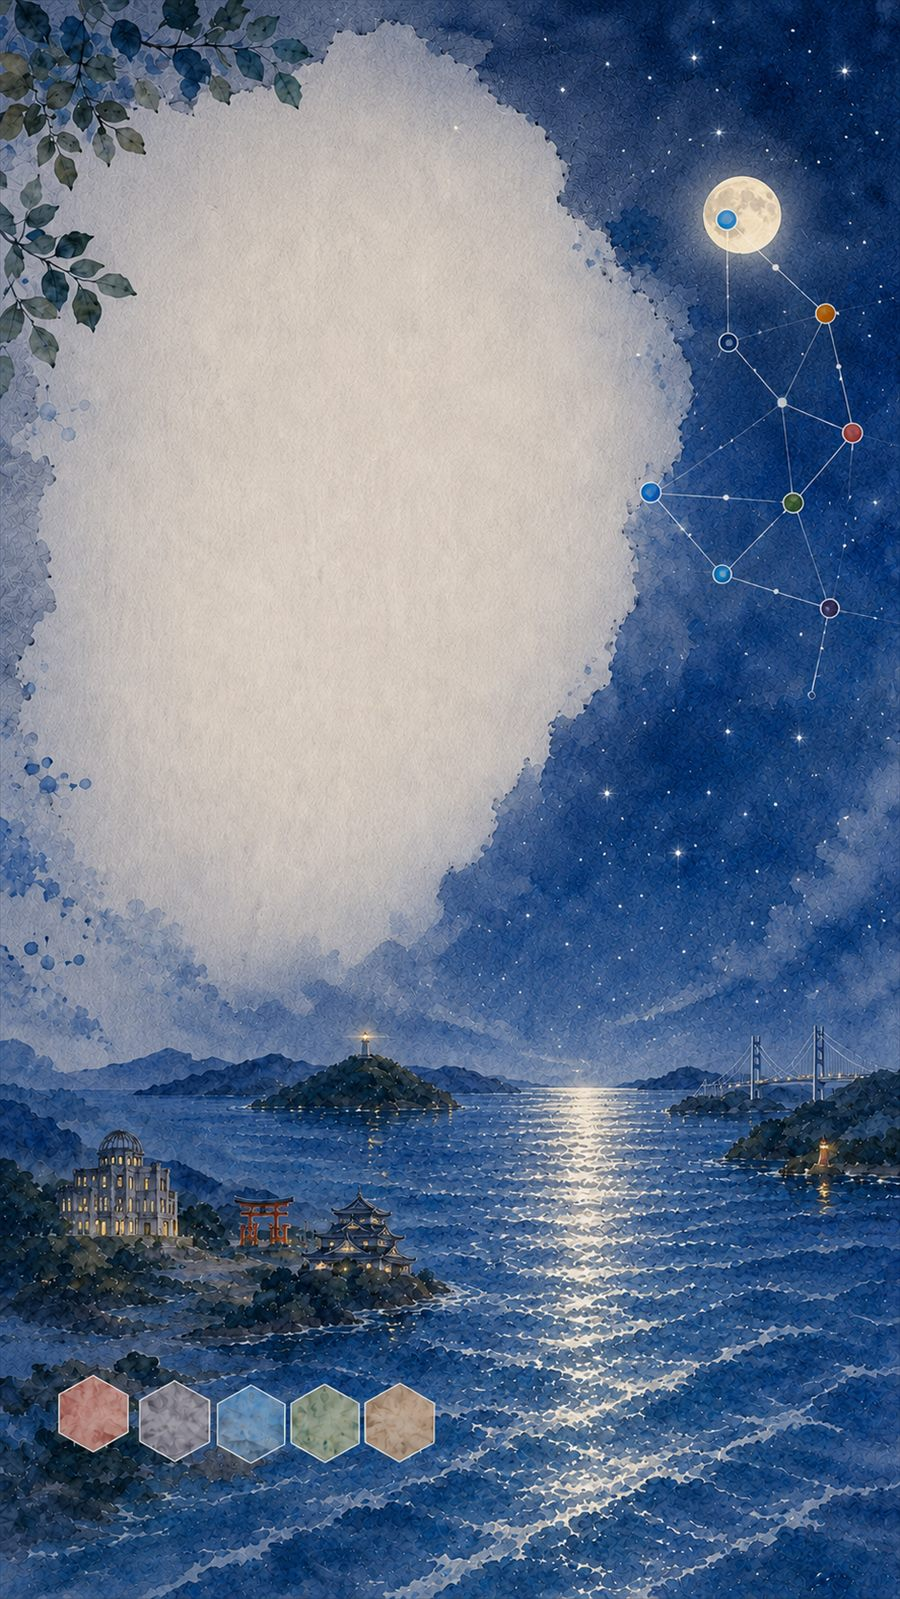
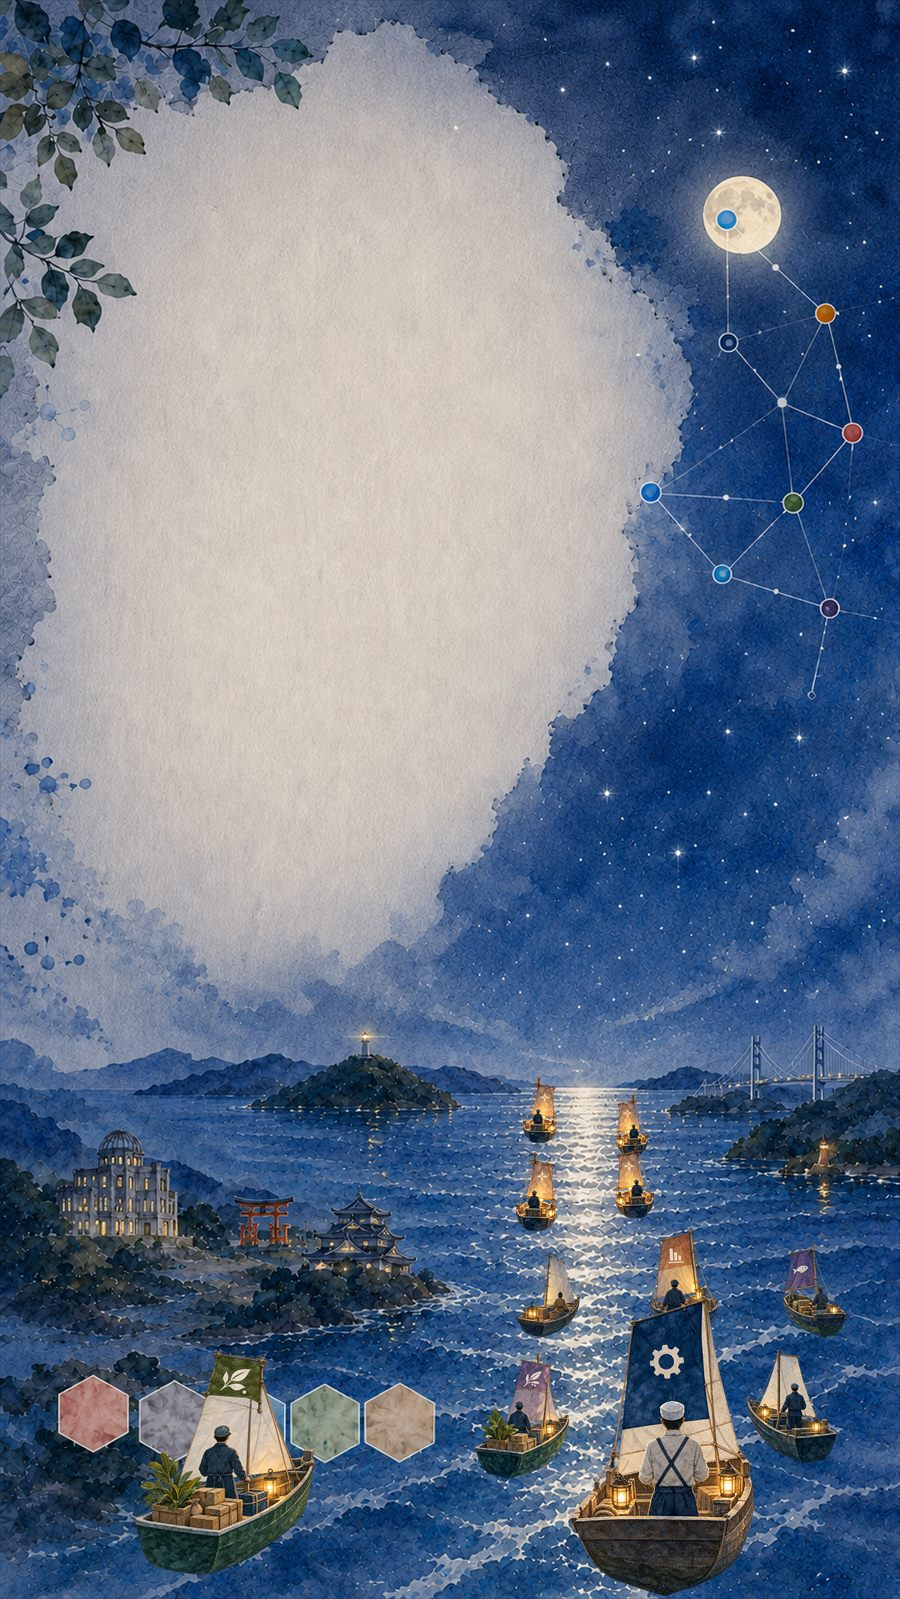
feat: 夜のモバイル背景に船団を合成、ロゴとアイコンを差し替え
■ モバイル版・夜の背景に船を合成（懸案の解消）

夜の縦の絵には舟が描かれていなかった。もらった夜の舟10点（灯りの点いた
水彩）を月光の道へ11隻合成した。tools/build-hero-night-mobile.ps1。

夜は昼と同じやり方が通じない。順に3つ潰した。

1. 色だけでは陸と海を分けられない
   実測すると、島も城も橋も夜の海と同じ「暗い青」だった。
   分けられるのは木立と灯りの点いた建物だけ（暖色 b-r が負）。
   島・橋・岸は区画で除外するしかない。

2. 波頭と月光の道が陸に見える
   どちらも無彩色に近く、色の規則では陸に落ちる。水平線より下で
   明るいものは波か月光なので水として数えるようにした。

3. それでも水率が 65〜90% で通らない
   舟の喫水線の下を出力させたら、陸判定は塊ではなくごま塩状に
   散っていた。夜の波の細かい陰影を拾っていた。9x9 の窓で
   「周りの55%以上が水なら水」とならした（総和表で一度に計算）。

あわせて、読み込み時に舟の透明な余白を切り落とすようにした。
舟10 は絵が中央の一部しかなく（下に25.5%の余白）、切らずに置くと
指定した喫水線より遥か上に浮いていた。

置き場所は当てずっぽうではなく、行ごとに水が続く範囲を3px刻みで
実測してから決めた。結果、11隻すべて水率 98.7〜100%、重なり 0〜4.9%。

■ そのほか（依頼を受けた順）

- 参加事業者の枠を、下の5枚の並び全体（左端〜右端）と同じ幅に。
  1列ぶんに揃えたのは読み違いだった。
- その枠だけ線が太く見えたのは、枠の濃さが .7 で他のカード（.45）より
  強かったため。揃えた。
- カニが幕の下に沈んでいた。幕を z-index:-2 へ下げ、生き物（-1）が
  必ず上に来るようにした。
- 海底火山が「参加を相談する」に重なっていたので画面の左端へ寄せた。
- フッターに広島県とLTSのロゴを設置（もらったファイル）。
- 支援体制5枚の絵を、もらった水彩に差し替え。白地の正方形なので
  円に切って金の輪で締めた（tools/build-node-icons.ps1）。

■ 検査の穴をひとつ塞いだ

スクロール連動（creature-cruise）で生き物が動くぶんを overlap.js が
見ていなかった。そのせいで、熱水噴出孔がFAQの見出しに乗って 1.1:1 まで
落ちていたのを見逃していた。振れ幅を :root の変数にまとめ、検査側も
同じ値を読んで当たり判定を広げるようにした（vw の解決も直した。
parseFloat だけでは 1.6vw が 1.6px になっていた）。
実際に落ちたので、振れ幅を 3.2vw/46px → 1.0vw/6px に絞った。

検証: 1920/1440/1280/1024/834/767/430/390/360 を昼と夜の両方で、
check.js・overlap.js・onpaper.js すべて合格。

Changed region(s): [[0.5289, 0.6742, 0.9333, 1.0], [0.1556, 0.8274, 0.3422, 1.0]]

diff --git a/style.css b/style.css
@@ -77,6 +77,15 @@
 
   --wrap:1120px;
   --radius:16px;
+
+  /* スクロールに連れて生き物が流れる距離（@keyframes creature-cruise）。
+     tools/overlap.js も読む。片方だけ変えないこと。 */
+  /* 縦は文字の行間へ直に効くので小さく。横は水域が広いぶん取れる。
+     3.2vw/46px にしていたとき、熱水噴出孔がFAQの見出しに乗って
+     1.1:1 まで落ちていた（検査が連動ぶんを見ていなかったので
+     長らく気づけなかった）。 */
+  --cruise-dx:1.0vw;
+  --cruise-dy:6px;
 }
 
 /* ============================================================
@@ -247,11 +256,15 @@ body::after{
      z-index:0 の擬似要素は通常フローの中身より後に描かれるため、
      文字の上に幕が乗っていた（実測で16要素が下敷きになっていた）。
 
-     -1 なら通常フローの中身より先に描かれるので、カードにも文字にも
-     絶対に掛からない。ページのグラデーション（-3）と光の筋（-2）よりは
-     上なので、水を暗くする役目は変わらない。
-     深海の生き物は z-index:0 なので幕より上に出る（そのための 0）。 */
-  z-index:-1;pointer-events:none;
+     通常フローの中身より先に描かれる負の値にすれば、カードにも文字にも
+     絶対に掛からない。
+
+     -2 にするのは、生き物（-1）より下へ回すため。-1 にしていたら、
+     幕は深海の器の子で DOM 順があとになるぶん、同じ -1 の生き物の上に
+     乗ってしまい、中層のカニが幕の下に沈んで見えた（依頼主 2026-09-05）。
+     ページのグラデーション（-3）よりは上なので、水を暗くする役目は
+     変わらない。 */
+  z-index:-2;pointer-events:none;
   background:linear-gradient(180deg,
     rgba(var(--deep-rgb),0)            0,
     rgba(var(--deep-rgb),var(--deep-a1)) var(--deep-lead),
@@ -617,24 +630,35 @@ h2{
    そのまま大きく出すとカードを占領してしまう。小さく中央に置き、
    文字も中央揃えにして「役割の一覧」として読ませる。 */
 .nodes .card{align-items:center;text-align:center;padding:20px 16px;}
-.nodes .vignette-center{width:auto;max-width:none;height:58px;margin:0 auto .2em;}
+/* 支援体制の絵は白地の正方形（tools/build-node-icons.ps1）。紺のカードに
+   四角のまま置くと浮くので、円に切って金の輪で締める。
+   もとの丸バッジと同じ見え方になり、絵だけ差し替えられる。 */
+.nodes .vignette-center{
+  width:clamp(64px, 7.4vw, 92px);height:auto;max-width:none;
+  aspect-ratio:1;object-fit:cover;
+  margin:0 auto .35em;
+  border-radius:50%;
+  box-shadow:0 0 0 2px rgba(198,164,92,.85), 0 4px 14px rgba(3,14,32,.4);
+}
 .nodes .card-title{font-size:18px;}
 .nodes .card p{font-size:15px;}
 
 /* 支援体制の中心 */
 .hub-center{
   display:flex;flex-direction:column;align-items:center;gap:.1em;
-  /* 幅は下の5枚と揃える。280px の決め打ちだと、下の枠のどの列とも
-     縁が合わず「ずれている」ように見えた（依頼主 2026-09-05）。
-     下は .grid（gap:24px）の5列なので、1列ぶんはこの式になる。
-     列数が変わる幅では、下のメディアクエリで式も切り替える。 */
-  width:calc((100% - 4 * 24px) / 5);
+  /* 幅は下の5枚の並び全体と揃える ―― 一番左の枠の左端から、一番右の
+     枠の右端まで。280px の決め打ちだと下のどの枠とも縁が合わず、
+     ずれて見えた（依頼主 2026-09-05）。
+     下の .grid は .wrap の幅いっぱいなので、100% で端がぴたりと合う。 */
+  width:100%;
   max-width:none;margin:0 auto 26px;
   padding:20px;border-radius:var(--radius);
   /* 金の淡い地は下地を明るくしてしまい、白系の文字が乗らない。
      紺を敷いて金は枠だけにする。 */
   background:#0A2445;
-  box-shadow:inset 0 0 0 1px rgba(198,164,92,.7);
+  /* 枠の濃さはカード（.45）と揃える。.7 にしていたら、同じ1pxでも
+     この箱だけ線が太く見えると指摘を受けた（2026-09-05）。 */
+  box-shadow:inset 0 0 0 1px rgba(198,164,92,.45);
 }
 .hub-center strong{font-family:var(--serif);font-size:23px;color:#fff;}
 .hub-center span{font-size:15px;color:var(--paper-soft);}
@@ -1067,7 +1091,6 @@ h2{
   .section{padding:88px 0;}
   .section + .section{padding-top:72px;}
   .grid-5{grid-template-columns:repeat(3,1fr);}
-  .hub-center{width:calc((100% - 2 * 24px) / 3);}   /* 3列ぶんの1列 */
   .hero-nav a{min-width:180px;font-size:12.5px;}
 }
 
@@ -1128,7 +1151,6 @@ h2{
 @media (max-width:900px){
   .grid-3{grid-template-columns:repeat(2,1fr);}
   .grid-5{grid-template-columns:repeat(2,1fr);}
-  .hub-center{width:calc((100% - 24px) / 2);}   /* 2列ぶんの1列 */
   .cta-grid{grid-template-columns:1fr;}
 }
 
@@ -1156,7 +1178,6 @@ h2{
 
   /* --- すべて1列に --- */
   .grid-3,.grid-5{grid-template-columns:1fr;gap:14px;}
-  .hub-center{width:100%;}   /* 1列なので枠いっぱい */
   .card{padding:20px 18px;}
 
   /* 1列になって横幅に余裕が出るので、挿絵はむしろ大きくしてよい */
@@ -1369,9 +1390,13 @@ h2{
    振れ幅は控えめにしてある。大きく振ると、生き物が隣のセクションの
    文字の上まで流れてきて、tools/overlap.js の見立て（揺れの分だけ
    矩形を広げて当たりを見る）から外れる。 */
+/* 振れ幅は :root に置く。tools/overlap.js が同じ値を読んで、生き物の
+   当たり判定をこのぶん広げる。片方だけ変えると、文字の上を通っても
+   検査が気づかない（実際 3.2vw / 46px のとき、スマホでFAQの見出しに
+   熱水噴出孔が乗って 1.1:1 まで落ちていたのを検査が見逃していた）。 */
 @keyframes creature-cruise{
-  from{ translate:var(--cruise-x, 3.2vw) 46px; }
-  to  { translate:calc(var(--cruise-x, 3.2vw) * -1) -46px; }
+  from{ translate:var(--cruise-x, var(--cruise-dx)) var(--cruise-dy); }
+  to  { translate:calc(var(--cruise-x, var(--cruise-dx)) * -1) calc(var(--cruise-dy) * -1); }
 }
 @supports (animation-timeline: view()){
   @media (prefers-reduced-motion:no-preference){
@@ -1383,15 +1408,13 @@ h2{
     /* 一つおきに向きを変える。全部が同じ向きへ流れると、
        ページ全体が横に滑っているように見えて落ち着かない。 */
     .sec-what .creatures,.sec-themes .creatures,
-    .sec-target .creatures,.sec-faq .creatures{--cruise-x:-3.2vw;}
+    .sec-target .creatures,.sec-faq .creatures{--cruise-x:calc(var(--cruise-dx) * -1);}
   }
 }
-/* 深海では幕（.deep-zone::before, z-index:0）より上に出す。
-   幕の下に置くと、濃さ .78〜.88 の紺が生き物の上に乗って、魚もクラゲも
-   ほとんど溶けて消える（依頼主から「薄い」と指摘を受けた 2026-08-31）。
-   幕と同じ z-index:0 で、DOM順が幕より後なので生き物が上に来る。
-   本文は .tier-deep > .wrap が z-index:1 なので、さらにその上にいる。 */
-.deep-zone .creatures{z-index:0;}
+/* 生き物は必ず幕より上（幕は z-index:-2、生き物は -1）。
+   幕の下に置くと、濃い紺が生き物の上に乗って魚もクラゲも溶けて消える
+   （依頼主から「薄い」2026-08-31／「カニが幕の下」2026-09-05）。
+   本文は通常フローなので、負の z-index の生き物より必ず上にいる。 */
 .creature{
   position:absolute;
   top:var(--ct,auto); right:var(--cr,auto); bottom:var(--cb,auto); left:var(--cl,auto);
@@ -1544,7 +1567,10 @@ h2{
    そこから下へ食み出させる。ボタンもカードも注記も、この帯より上にある。
    値は実測から。1440/1280/1100/810 のどれでも火山の上端が注記の下端より
    下に来ることを確かめてある。 */
-.sec-entry    .b1{--cl:3%; --cb:-160px; --cw:clamp(120px,12vw,180px); --co:.58;}
+/* 海底火山は画面の左端へ寄せる。中央寄りだと「参加を相談する」の
+   ボタンと重なる（依頼主 2026-09-05）。左へはみ出すぶんは
+   body の overflow-x:clip が切る。 */
+.sec-entry    .b1{--cl:-5%; --cb:-160px; --cw:clamp(120px,12vw,180px); --co:.58;}
 
 /* --- 配置 ---
    置き場所は「カードが無い水域」を狙う。見出しとリード文は左寄せで
@@ -1659,7 +1685,7 @@ h2{
   .sec-benefit{padding-bottom:250px;}
   .sec-themes   .b1{--cl:2%;  --ct:auto; --cb:14%; --cw:38%;}
   .sec-schedule .b1{--cl:12%; --cb:-64px; --cw:78%;}
-  .sec-entry    .b1{--cl:2%;  --cb:-46px; --cw:46%;}
+  .sec-entry    .b1{--cl:-10%; --cb:-46px; --cw:46%;}   /* 左端へ（ボタンを避ける） */
 }
 /* ============================================================
    対象診断のポップアップ

diff --git a/tools/overlap.js b/tools/overlap.js
@@ -144,6 +144,26 @@ window.__overlap = async function () {
       dx = b.height * Math.sin(r);
       dy = b.height * (1 - Math.cos(r));
     }
+    /* 生き物を入れている器（.creatures）は、スクロールに連れて
+       ±--cruise-dx / ±--cruise-dy だけ流れる（style.css の
+       @keyframes creature-cruise）。個々の揺れとは別に、この分も
+       当たり判定へ足さないと、文字の上を通る瞬間を見逃す。
+       値は :root から読む。CSS 側と同じ変数を見ること。 */
+    /* px() は parseFloat なので vw を解決しない。1.6vw が 1.6px に
+       なってしまい、ほとんど広げないまま通してしまう。 */
+    const len = v => {
+      const s = String(v).trim();
+      const n = parseFloat(s) || 0;
+      if (s.endsWith('vw')) return n * innerWidth / 100;
+      if (s.endsWith('vh')) return n * innerHeight / 100;
+      return n;
+    };
+    const rootCs = getComputedStyle(document.documentElement);
+    const cruiseX = Math.abs(len(rootCs.getPropertyValue('--cruise-dx')));
+    const cruiseY = Math.abs(len(rootCs.getPropertyValue('--cruise-dy')));
+    dx += cruiseX;
+    dy += cruiseY;
+
     return { left: b.left - dx, right: b.right + dx, top: b.top - dy, bottom: b.bottom + dy,
              w: b.width, h: b.height, dx, dy };
   };

diff --git a/index.html b/index.html
@@ -559,14 +559,14 @@
       <p class="credit-label">主催・運営</p>
       <div class="lockup">
         <span class="lockup-item">
-          <img src="assets/img/logos/hiroshima-pref.png" alt="" width="180" height="60" onerror="this.remove()">
+          <img src="assets/img/logos/hiroshima-pref.png" alt="" width="143" height="72" onerror="this.remove()">
           <span class="lockup-name">広島県</span>
         </span>
         <span class="lockup-x" aria-hidden="true">
           <svg viewBox="0 0 40 40" role="img"><use href="#ic-cross"></use></svg>
         </span>
         <span class="lockup-item">
-          <img src="assets/img/logos/lts.png" alt="" width="220" height="60" onerror="this.remove()">
+          <img src="assets/img/logos/lts.png" alt="" width="388" height="192" onerror="this.remove()">
           <span class="lockup-name">株式会社エル・ティー・エス</span>
         </span>
       </div>
